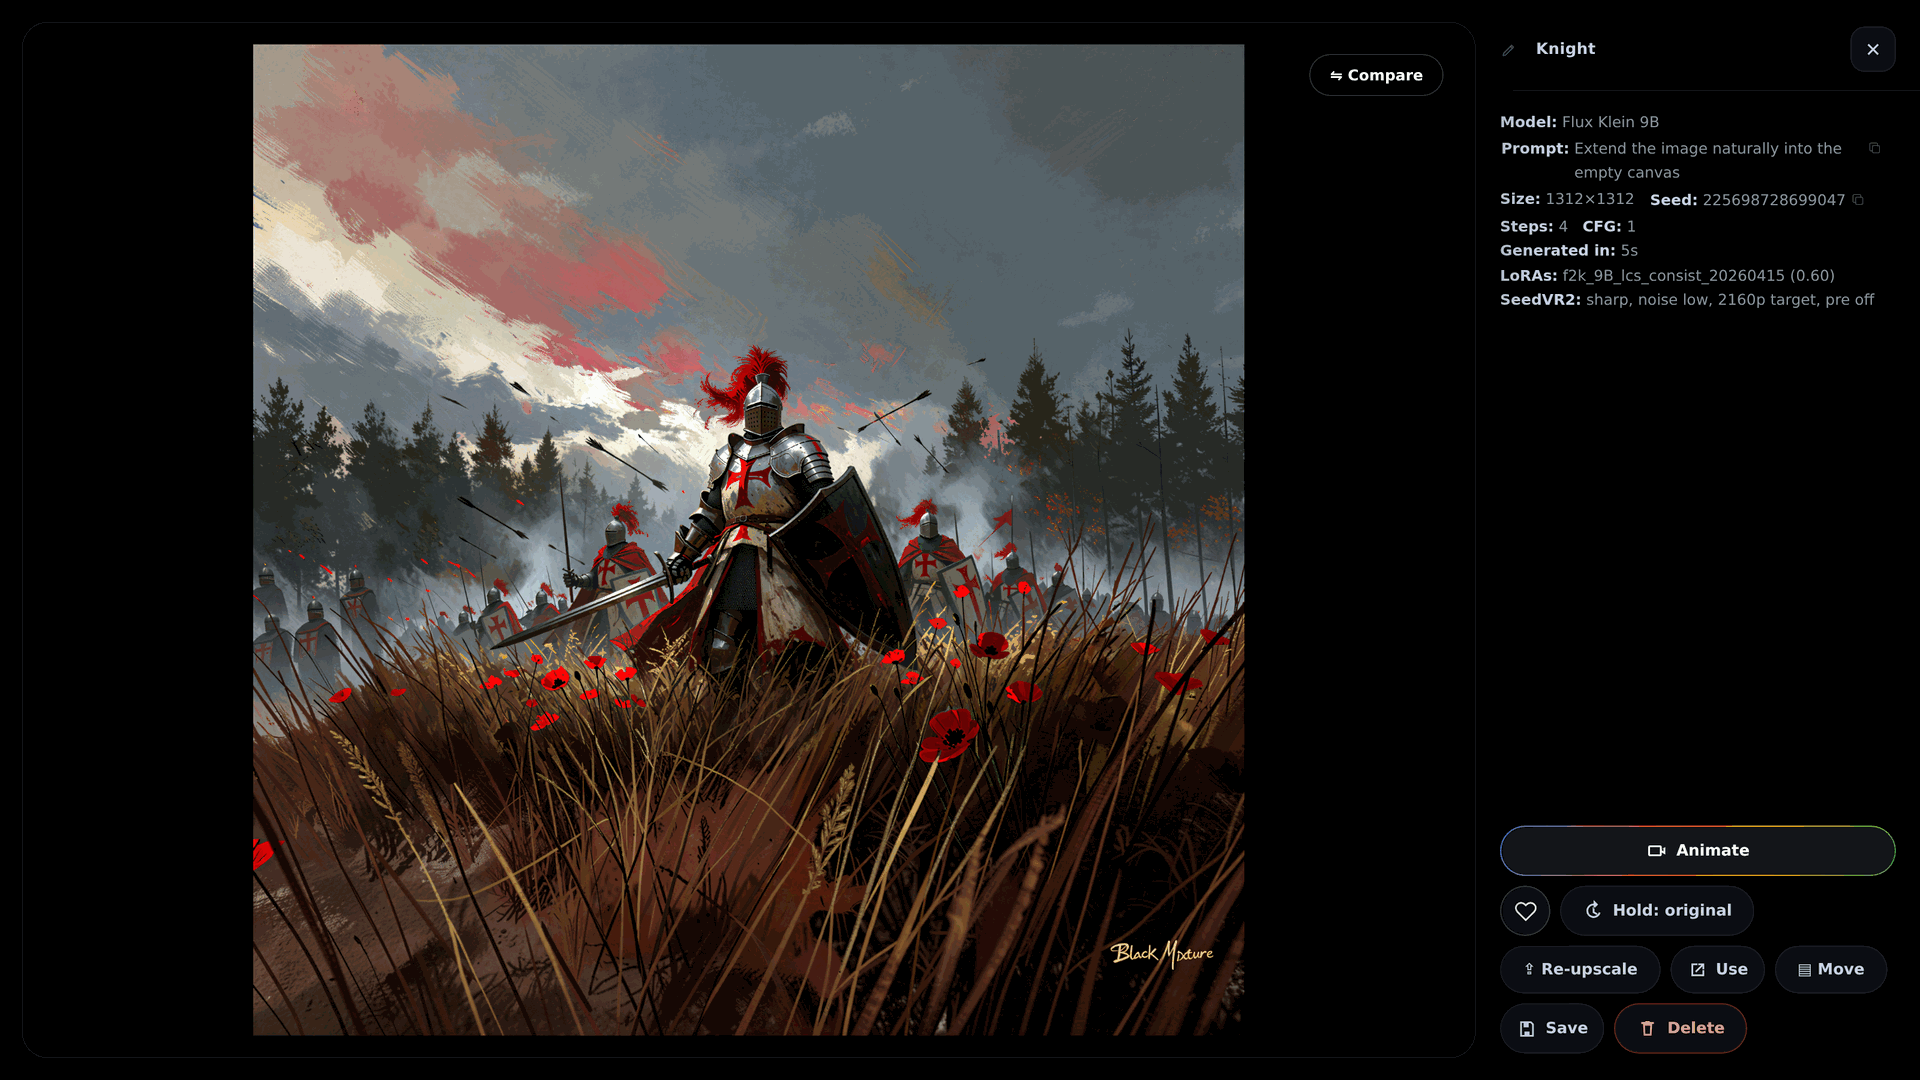
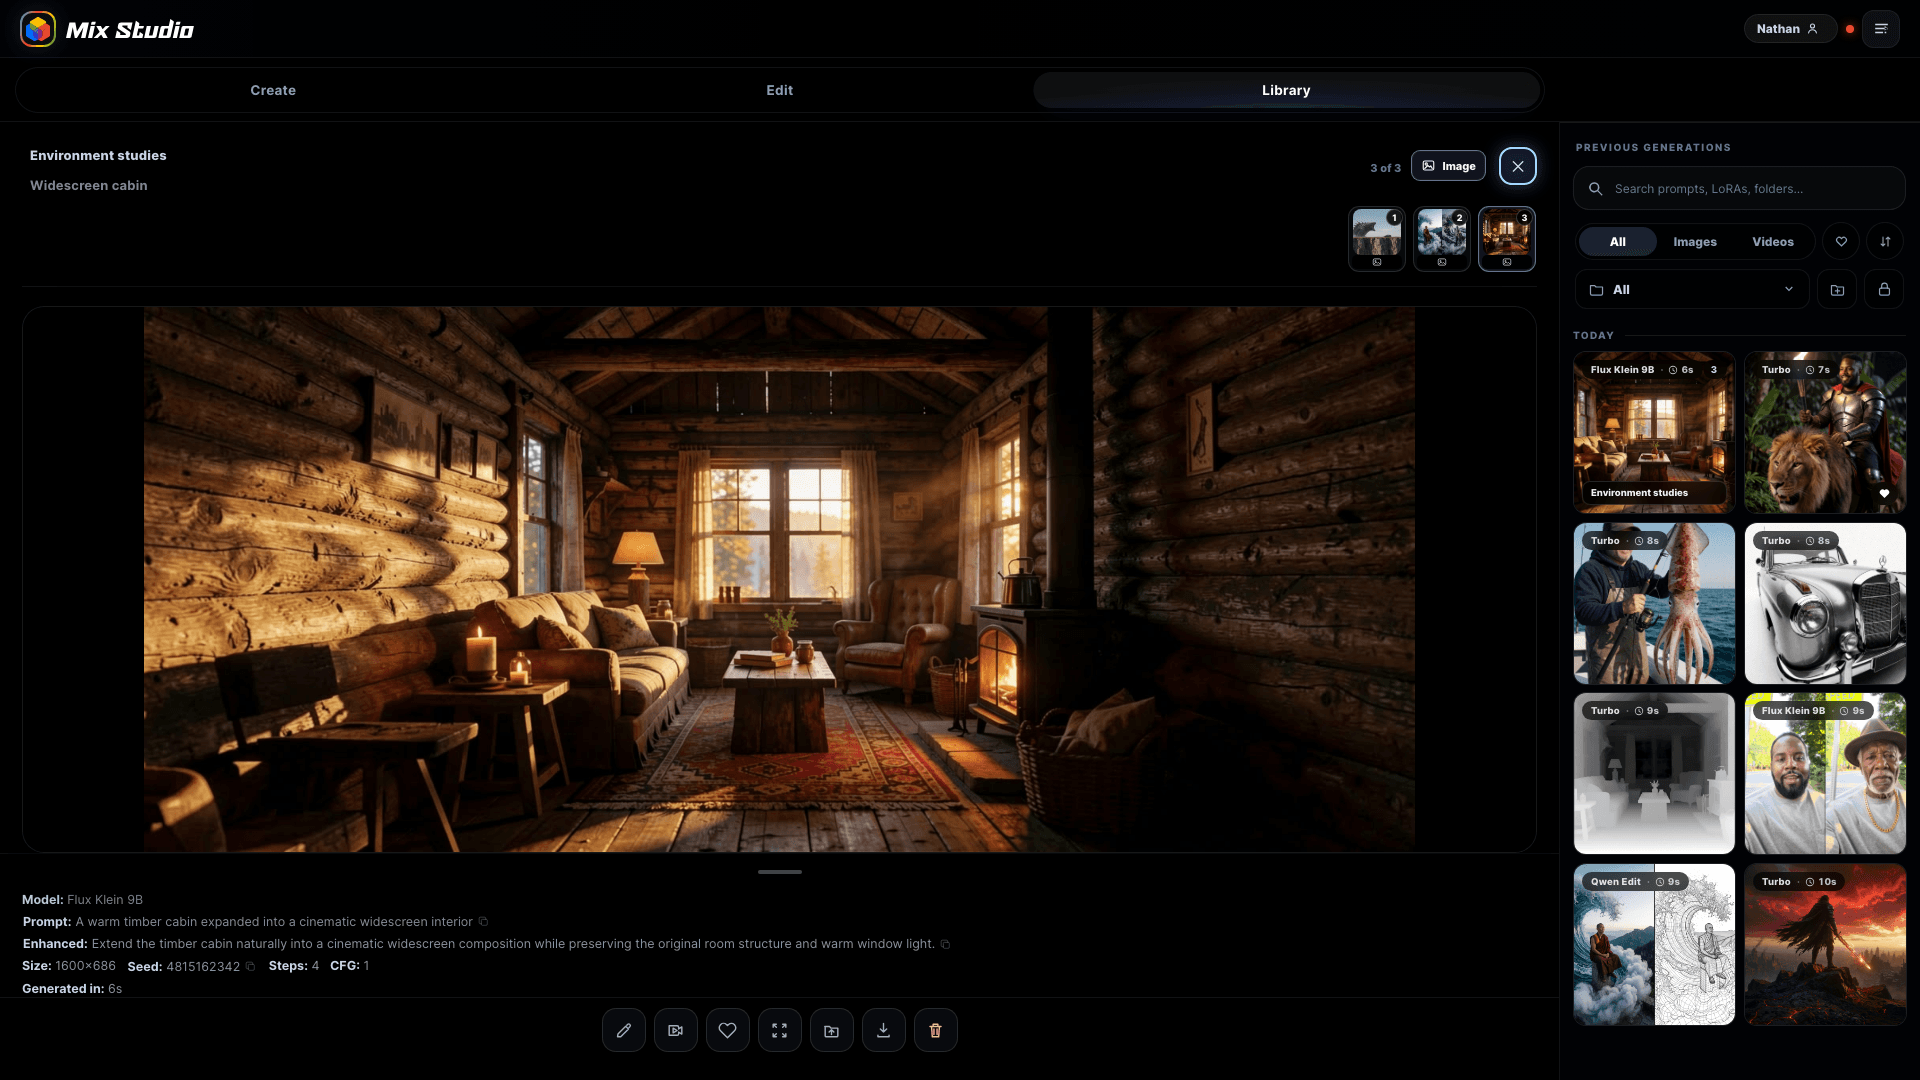
Refresh README interface screenshots

diff --git a/test/readme-feature-copy.test.js b/test/readme-feature-copy.test.js
@@ -34,6 +34,8 @@ test('README workspace showcase uses headings, body copy, and full-width screens
   assert.equal((section.match(/^!\[[^\]]+\]\(docs\/download\/mix-studio-[^)]+\)$/gm) || []).length, 10);
   assert.match(section, /LTX 2\.3, Director, Face ID, LTX Edit, 10Eros, Wan 2\.2, and SCAIL 2/);
   assert.match(section, /Multiple inputs, masks, outpainting, preserve controls, and sequential edits/);
+  assert.match(section, /Focused Library result with group thumbnails, resizable generation metadata, and centered action controls/);
+  assert.ok(fs.statSync(path.join(root, 'docs', 'download', 'mix-studio-lightbox.png')).size < 768 * 1024, 'focused view screenshot stays below 768 KB');
 });
 
 test('README local screenshots and showcase media resolve to checked-in files', () => {
@@ -52,11 +54,13 @@ test('README regional prompting uses a lightweight animated bounding-box map', (
   assert.ok(fs.statSync(animation).size < 1024 * 1024, 'regional GIF stays below 1 MB');
 });
 
-test('README demonstrates lightweight @-addressed multi-reference editing', () => {
+test('README demonstrates static @-addressed multi-reference editing after the core showcase', () => {
   assert.match(readme, /type `@` to insert a specific image as a prompt token/);
   assert.match(readme, /`@Image 1` supplies the character/);
-  assert.match(readme, /docs\/download\/media\/edit-reference-mentions\.gif/);
-  const animation = path.join(root, 'docs', 'download', 'media', 'edit-reference-mentions.gif');
-  assert.ok(fs.existsSync(animation));
-  assert.ok(fs.statSync(animation).size < 768 * 1024, 'reference GIF stays below 768 KB');
+  assert.match(readme, /docs\/download\/media\/edit-reference-mentions\.png/);
+  assert.doesNotMatch(readme, /edit-reference-mentions\.gif/);
+  assert.ok(readme.indexOf('### Edit: localized and multi-reference changes') > readme.indexOf('### Video'));
+  const screenshot = path.join(root, 'docs', 'download', 'media', 'edit-reference-mentions.png');
+  assert.ok(fs.existsSync(screenshot));
+  assert.ok(fs.statSync(screenshot).size < 512 * 1024, 'reference screenshot stays below 512 KB');
 });

diff --git a/test/portable-installer.test.js b/test/portable-installer.test.js
@@ -198,10 +198,11 @@ test('GitHub Pages publishes the canonical installer from a branded download pag
   assert.match(page, /ltx-dreamscape\.mp4", previewEnd: 3/);
   assert.doesNotMatch(page, /Shark breach/);
   assert.match(page, /edit-aging-motion\.mp4/);
-  assert.match(page, /edit-reference-mentions\.gif/);
+  assert.match(page, /edit-reference-mentions\.png/);
+  assert.doesNotMatch(page, /edit-reference-mentions\.gif/);
   assert.match(page, /Use @ to assign a role to each input/);
   assert.match(page, /@Image 1<\/strong> supplies the character/);
-  assert.ok(fs.statSync(path.join(root, 'docs', 'download', 'media', 'edit-reference-mentions.gif')).size < 768 * 1024);
+  assert.ok(fs.statSync(path.join(root, 'docs', 'download', 'media', 'edit-reference-mentions.png')).size < 512 * 1024);
   assert.match(page, /data-loop-end="2"/);
   assert.match(page, /region-island\.png/);
   assert.match(page, /Snow biome/);

diff --git a/docs/download/index.html b/docs/download/index.html
@@ -700,7 +700,7 @@
         </div>
         <div class="gen-grid">
           <article class="gen-card wide span-2"><div class="video-reel" data-video-showcase><video src="./media/scail-flower-world.mp4" autoplay muted playsinline aria-label="Fourteen rotating SCAIL 2 and LTX 2.3 video examples"></video><button class="video-reel-arrow previous" type="button" data-reel-previous aria-label="Previous video example"><svg viewBox="0 0 24 24" aria-hidden="true"><path fill="currentColor" d="m15.4 5.4-1.4-1.4L6 12l8 8 1.4-1.4L8.8 12l6.6-6.6Z"/></svg></button><button class="video-reel-arrow next" type="button" data-reel-next aria-label="Next video example"><svg viewBox="0 0 24 24" aria-hidden="true"><path fill="currentColor" d="m8.6 18.6 1.4 1.4 8-8-8-8-1.4 1.4 6.6 6.6-6.6 6.6Z"/></svg></button><div class="video-reel-tabs" role="tablist" aria-label="Choose a video example"><button type="button" data-reel-index="0" aria-selected="true">Setting replacement</button><button type="button" data-reel-index="1" aria-selected="false">Object + setting</button><button type="button" data-reel-index="2" aria-selected="false">Animal replacement</button><button type="button" data-reel-index="3" aria-selected="false">Season + habitat</button><button type="button" data-reel-index="4" aria-selected="false">Edit to performance</button><button type="button" data-reel-index="5" aria-selected="false">Prism storm</button><button type="button" data-reel-index="6" aria-selected="false">Character performance</button><button type="button" data-reel-index="7" aria-selected="false">Storm ruins</button><button type="button" data-reel-index="8" aria-selected="false">Dreamscape portrait</button><button type="button" data-reel-index="9" aria-selected="false">Interior camera move</button><button type="button" data-reel-index="10" aria-selected="false">Arena action</button><button type="button" data-reel-index="11" aria-selected="false">Stylized action</button><button type="button" data-reel-index="12" aria-selected="false">Rain-lit portrait</button><button type="button" data-reel-index="13" aria-selected="false">Mech battlefield</button></div></div><div class="gen-copy" data-video-caption aria-live="polite"><span data-reel-kicker>SCAIL 2 · directed video editing</span><h3 data-reel-title>Change the subject, object, or world</h3><p data-reel-description>Transfer the original motion while preserving timing, camera movement, realistic physics, and scene-aware lighting.</p></div></article>
-          <article class="gen-card span-2"><img src="./media/edit-reference-mentions.gif" alt="Animated Mix Studio edit showing @Image 1 as the character, @Image 2 as the jacket, and @Image 3 as the setting before revealing the combined result" loading="lazy" decoding="async" width="900" height="550" /><div class="gen-copy"><span>Edit · reference-addressed prompt</span><h3>Use @ to assign a role to each input</h3><p><strong>@Image 1</strong> supplies the character, <strong>@Image 2</strong> supplies the jacket, and <strong>@Image 3</strong> supplies the setting in one Flux Klein 9B edit.</p></div></article>
+          <article class="gen-card span-2"><img src="./media/edit-reference-mentions.png" alt="Mix Studio Edit workspace with @Image 1 assigned to the character, @Image 2 to the jacket, and @Image 3 to the setting" loading="lazy" decoding="async" width="900" height="460" /><div class="gen-copy"><span>Edit · reference-addressed prompt</span><h3>Use @ to assign a role to each input</h3><p><strong>@Image 1</strong> supplies the character, <strong>@Image 2</strong> supplies the jacket, and <strong>@Image 3</strong> supplies the setting in one Flux Klein 9B edit.</p></div></article>
           <article class="gen-card span-2"><div class="region-reveal" role="img" aria-label="Four prompt regions appearing over a sea monster scene before fading into the clean generated result"><img class="region-reveal-back" src="./media/region-monster.jpg" alt="" loading="lazy" /><div class="region-canvas"><img src="./media/region-monster.jpg" alt="" loading="lazy" /><div class="region-box sky"><span>Sky</span></div><div class="region-box cliff"><span>Cliff</span></div><div class="region-box monster"><span>Sea monster</span></div><div class="region-box car"><span>Car</span></div></div><div class="region-state" aria-hidden="true"><span class="planning">Regions defined</span><span class="result">Generated result</span></div></div><div class="gen-copy"><span>Region prompting · plan to result</span><h3>Define the scene. Generate the composition.</h3><p>Place the sky, cliff, sea monster, and car with visual regions, then generate the complete scene in one pass.</p></div></article>
           <article class="gen-card span-2"><img src="./media/depth-cabin.jpg" alt="Cabin interior, its depth map, and a snow-filled re-imagining" loading="lazy" /><div class="gen-copy"><span>Depth guide</span><h3>New image, same 3D structure</h3><p>Source → Depth Anything V3 map → re-imagined scene. Every armchair and beam stays in place.</p></div></article>
           <article class="gen-card paired-media"><img src="./media/inpaint-face.jpg" alt="Masked face inpainted to a different person, scene untouched" loading="lazy" /><div class="gen-copy"><span>Inpaint</span><h3>Paint the mask, change only the mask</h3><p>A character LoRA swapped into the masked area while the wave doesn't move a drop.</p></div></article>

diff --git a/README.md b/README.md
@@ -10,22 +10,6 @@ Generations run through **ComfyUI** on the Windows desktop; use the same respons
 
 Everything below was generated locally in Mix Studio, with most jobs submitted from a phone. More examples, including autoplaying video, are on the **[showcase and download page](https://blackmixture.github.io/Mix-Studio/)**.
 
-### Edit: localized and multi-reference changes
-
-Flux 2 Klein 4B/9B, Qwen Image Edit 2511, and Krea 2 accept prompt-based edits, multiple references, masks, and expanded canvases. Preserve and compositing controls determine which source pixels are restored after generation.
-
-Add up to three Edit inputs, then type `@` to insert a specific image as a prompt token. In this Flux Klein 9B edit, `@Image 1` supplies the character, `@Image 2` supplies the jacket, and `@Image 3` supplies the forest setting.
-
-![Animated Mix Studio edit showing three reference images addressed with @Image prompt tokens and combined into one result](docs/download/media/edit-reference-mentions.gif)
-
-| “Make the man an old black man with a gold chain and a hat” | “Make the rose into a gun” |
-| --- | --- |
-| ![Aging edit, scene preserved](docs/download/media/edit-aging.jpg) | ![Rose to revolver edit](docs/download/media/edit-rose-gun.jpg) |
-
-| “Make this a 3D render. Wireframe draft view.” | Mask inpainting: paint the face so only the selected area changes |
-| --- | --- |
-| ![Photo to wireframe render](docs/download/media/edit-wireframe.jpg) | ![Inpainted face swap via character LoRA](docs/download/media/inpaint-face.jpg) |
-
 ### Outpaint: extend the canvas
 
 A square generation continued into a seamless 21:9 interior.
@@ -60,6 +44,22 @@ Click a link to play the file, or see the videos looping on the [showcase page](
 | --- | --- |
 | [**SCAIL 2 motion transfer**: a phone clip of a hand drives motion in a generated fantasy scene](docs/download/media/scail-hand-fantasy.mp4) | [**SCAIL 2 motion transfer**: a dog-walk clip drives a mech and robot-dog scene](docs/download/media/scail-mech-dog.mp4) |
 | [**LTX 2.3 Face ID lipsync**: a reference image and voice recording condition one talking-video job](docs/download/media/lipsync-talking.mp4) | [**LTX 2.3 image-to-video**: a still image, motion prompt, and generated audio produce a video](docs/download/media/ltx-shark.mp4) |
+
+### Edit: localized and multi-reference changes
+
+Flux 2 Klein 4B/9B, Qwen Image Edit 2511, and Krea 2 accept prompt-based edits, multiple references, masks, and expanded canvases. Preserve and compositing controls determine which source pixels are restored after generation.
+
+Add up to three Edit inputs, then type `@` to insert a specific image as a prompt token. In this Flux Klein 9B edit, `@Image 1` supplies the character, `@Image 2` supplies the jacket, and `@Image 3` supplies the forest setting.
+
+![Mix Studio Edit workspace with three reference images addressed by @Image prompt tokens](docs/download/media/edit-reference-mentions.png)
+
+| “Make the man an old black man with a gold chain and a hat” | “Make the rose into a gun” |
+| --- | --- |
+| ![Aging edit, scene preserved](docs/download/media/edit-aging.jpg) | ![Rose to revolver edit](docs/download/media/edit-rose-gun.jpg) |
+
+| “Make this a 3D render. Wireframe draft view.” | Mask inpainting: paint the face so only the selected area changes |
+| --- | --- |
+| ![Photo to wireframe render](docs/download/media/edit-wireframe.jpg) | ![Inpainted face swap via character LoRA](docs/download/media/inpaint-face.jpg) |
 
 ## Inside the app
 
@@ -105,7 +105,7 @@ Search image, video, and uploaded-asset collections. Folders, named groups, save
 
 Inspect generated media with group navigation, prompt and model metadata, reuse actions, and documentation export without leaving the Library context.
 
-![Lightbox with outpainted knight and full generation metadata](docs/download/mix-studio-lightbox.png)
+![Focused Library result with group thumbnails, resizable generation metadata, and centered action controls](docs/download/mix-studio-lightbox.png)
 
 ### Upscale comparison
 